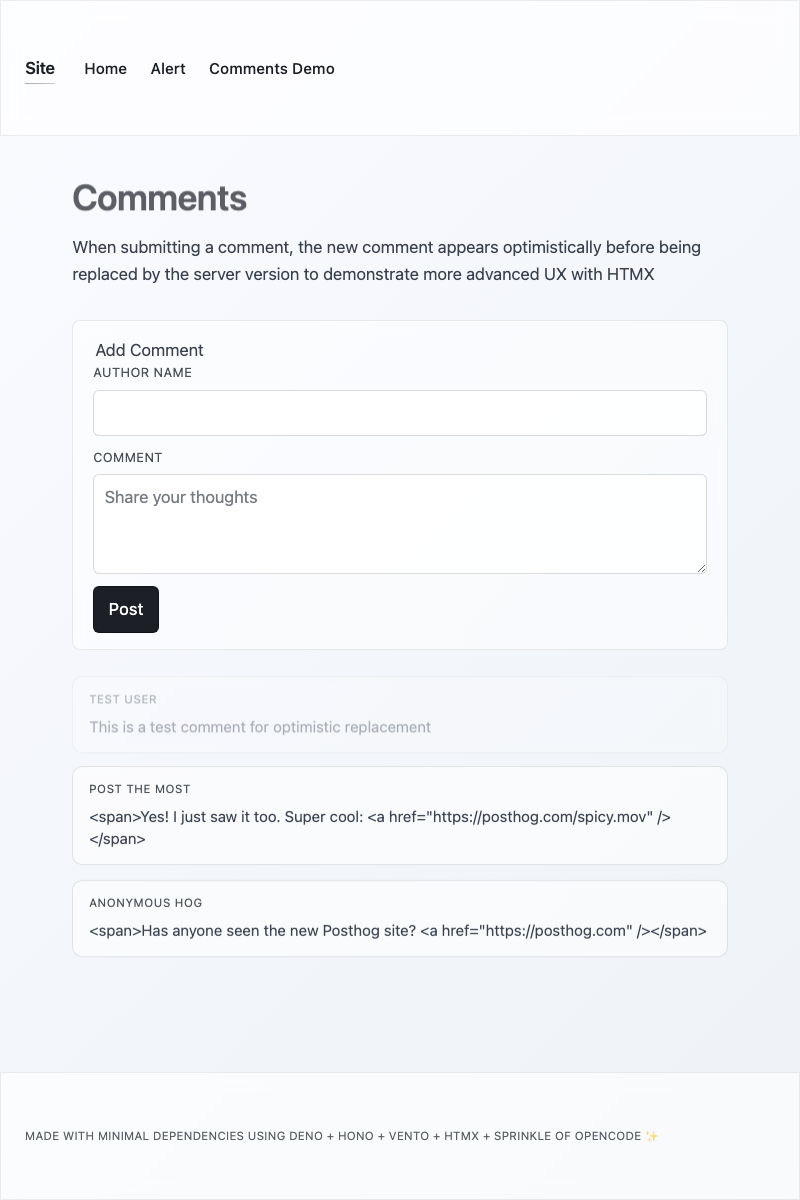
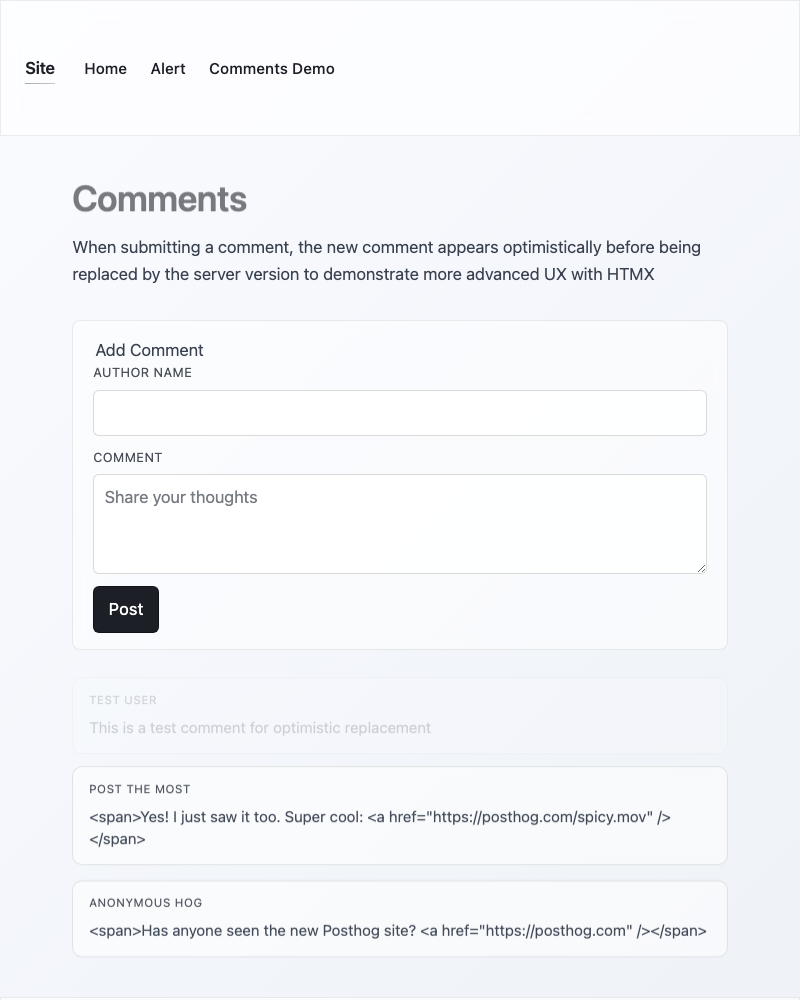
test: updates to playwright config

diff --git a/tests/e2e/comments.spec.ts b/tests/e2e/comments.spec.ts
@@ -29,7 +29,7 @@ test("comment demo works", async ({ page }) => {
   await expect(optimisticComment.locator('[data-field="time"]')).toContainText("(sending…)")
   await page.waitForSelector(".c-comment--optimistic", { state: "detached" })
 
-  await page.setViewportSize({ width: 800, height: 1200 })
+  await page.setViewportSize({ width: 800, height: 1000 })
   await page.screenshot({ path: ".github/screenshots/comments-sending.png" })
 
   const commentsList = page.locator("#comments-list")

diff --git a/tests/e2e/app.spec.ts b/tests/e2e/app.spec.ts
@@ -7,6 +7,6 @@ test("navigation works", async ({ page }) => {
   await expect(page).toHaveURL(/.+xss.+/)
   await expect(page.locator("h1").first()).toContainText("xss")
 
-  await page.setViewportSize({ width: 800, height: 600 })
+  await page.setViewportSize({ width: 800, height: 500 })
   await page.screenshot({ path: ".github/screenshots/home-xss.png" })
 })

diff --git a/playwright.config.ts b/playwright.config.ts
@@ -57,7 +57,6 @@ export default defineConfig({
   webServer: {
     command: `PORT=${PORT} deno task dev`,
     url: BASE_URL,
-    reuseExistingServer: !Deno.env.get("CI"),
-    timeout: 30 * 1000,
+    timeout: 10 * 1000,
   },
 })

diff --git a/README.md b/README.md
@@ -18,6 +18,7 @@ A simplified Deno web application built with Hono (API), Vento (templating), and
 mise install
 deno install
 hk install
+deno task test:e2e:install
 mise run build
 ```
 
